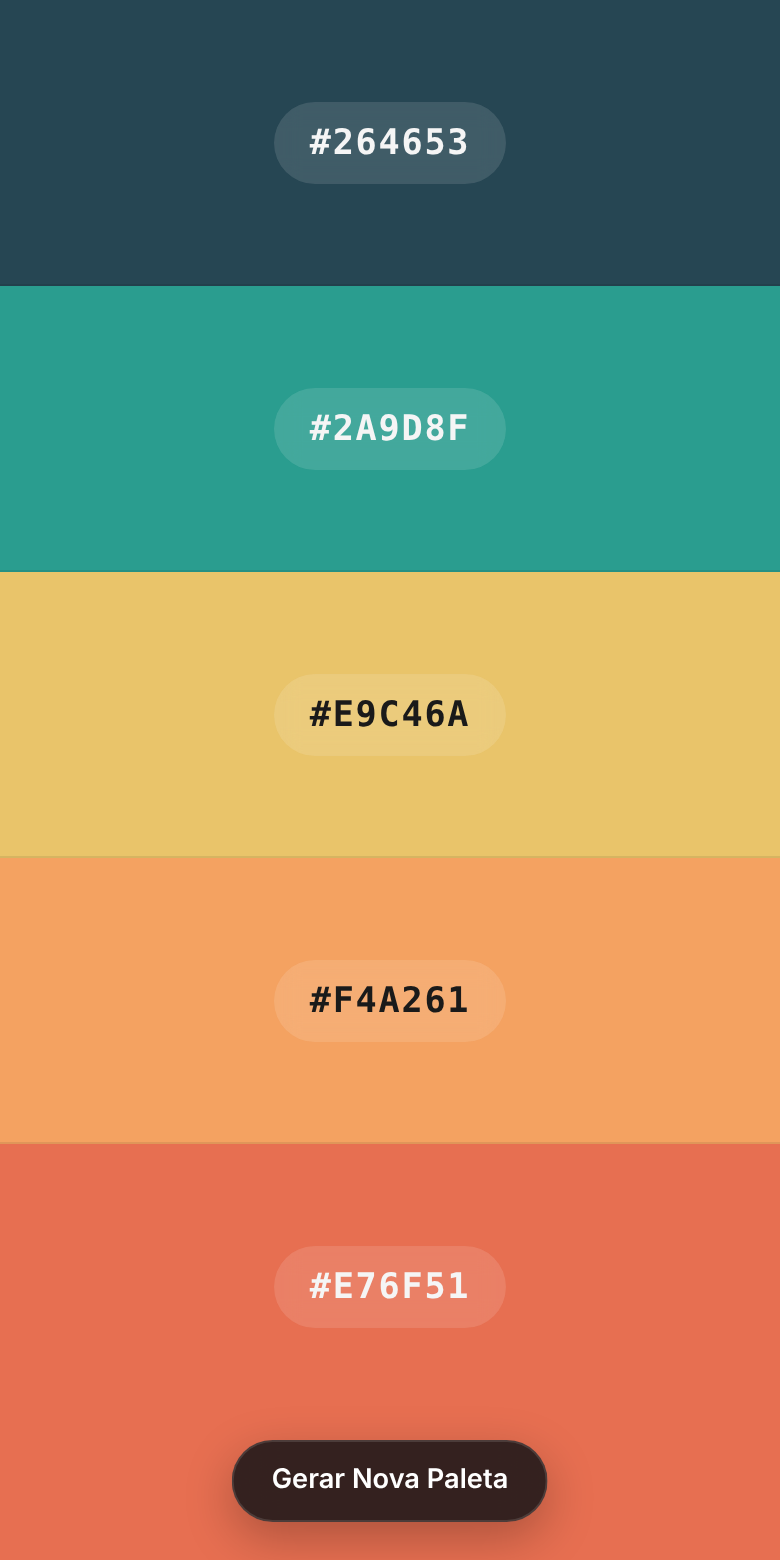
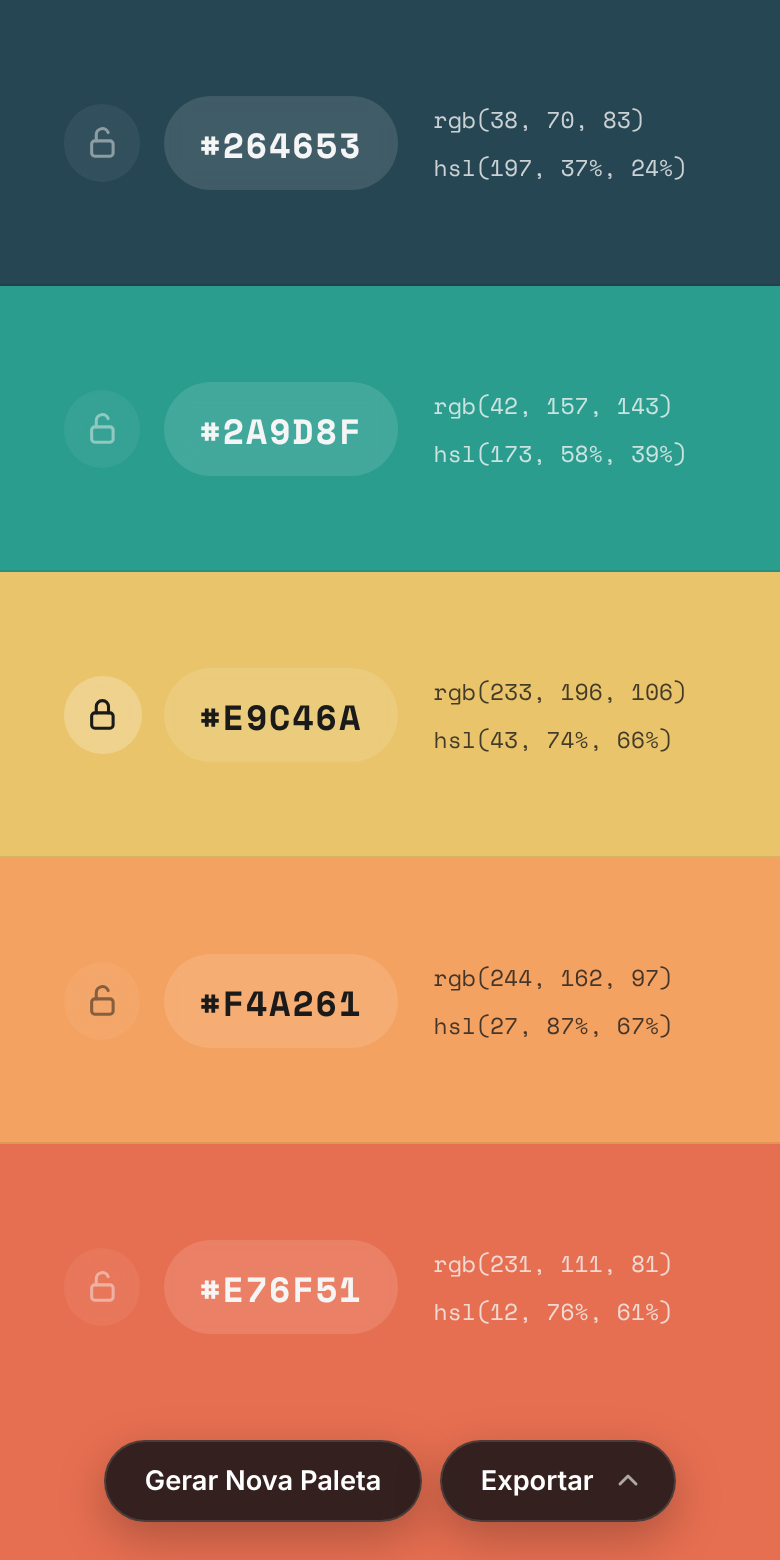
Atualiza README e prints com as novas funcionalidades
Move travar cores, RGB/HSL e exportação para "Funcionalidades",
explica as conversões e o canvas em "Como funciona" e remove a seção
"Próximas ideias". Os prints usam uma paleta fixa com a cor do meio
travada.

diff --git a/README.md b/README.md
@@ -2,14 +2,14 @@
 
 # 🎨 Gerador de Paletas
 
-Gere paletas de **5 cores aleatórias** com um clique (ou com a barra de espaço) e copie o código de qualquer cor na hora.
+Gere paletas de **5 cores aleatórias** com um clique (ou com a barra de espaço), trave as que você gostou e copie ou exporte a paleta na hora.
 
 [![Testar online](https://img.shields.io/badge/▶_Testar_online-264653?style=for-the-badge)](https://erickfuzer.github.io/GeradorDePaletas/)
 ![HTML5](https://img.shields.io/badge/HTML5-E34F26?style=for-the-badge&logo=html5&logoColor=white)
 ![CSS3](https://img.shields.io/badge/CSS3-1572B6?style=for-the-badge&logo=css3&logoColor=white)
 ![JavaScript](https://img.shields.io/badge/JavaScript-F7DF1E?style=for-the-badge&logo=javascript&logoColor=black)
 
-<img src="assets/preview.png" alt="Gerador de Paletas mostrando cinco colunas de cor com seus códigos hexadecimais" width="760">
+<img src="assets/preview.png" alt="Gerador de Paletas mostrando cinco colunas de cor com seus códigos hex, RGB e HSL, a do meio travada" width="760">
 
 </div>
 
@@ -18,15 +18,17 @@ Gere paletas de **5 cores aleatórias** com um clique (ou com a barra de espaço
 ## Funcionalidades
 
 - **5 cores aleatórias** a cada geração, com transição suave entre uma paleta e outra
-- **Copiar com um clique:** toque no código hex e ele vai para a área de transferência, com o aviso *"Copiado!"*
+- **Travar cores:** clique no cadeado de uma cor e ela continua igual nas próximas gerações
+- **Hex, RGB e HSL:** cada cor mostra os três formatos, e qualquer um vai para a área de transferência com um clique, com o aviso *"Copiado!"*
+- **Exportar a paleta:** baixe como imagem (`paleta.png`) ou copie como variáveis CSS (`:root { --cor-1: …; }`)
 - **Atalho de teclado:** aperte <kbd>Espaço</kbd> para gerar uma nova paleta
 - **Texto sempre legível:** a cor do código muda entre claro e escuro conforme o brilho do fundo
-- **Responsivo:** no celular as colunas viram faixas empilhadas e o botão nunca cobre o último código
+- **Responsivo:** no celular as colunas viram faixas empilhadas e os botões nunca cobrem o último código
 
 <details>
 <summary>Ver no celular</summary>
 <br>
-<img src="assets/preview-mobile.png" alt="Versão mobile com as cores empilhadas" width="260">
+<img src="assets/preview-mobile.png" alt="Versão mobile com as cores empilhadas, cada uma com cadeado, hex, RGB e HSL" width="260">
 </details>
 
 ## Como usar
@@ -41,28 +43,24 @@ git clone https://github.com/erickfuzer/GeradorDePaletas.git
 
 Depois é só abrir o `index.html` no navegador. Não precisa instalar nada.
 
-> O botão de copiar usa a Clipboard API, que só funciona em `https://` ou `localhost`. Se abrir o arquivo direto e a cópia falhar, use a versão online.
+> Copiar os códigos e exportar como CSS usam a Clipboard API, que só funciona em `https://` ou `localhost`. Se abrir o arquivo direto e a cópia falhar, use a versão online.
 
 ## Estrutura
 
 ```
 GeradorDePaletas/
-├── index.html    # estrutura da página
-├── style.css     # layout das colunas, botão e versão mobile
-├── script.js     # geração das cores, cópia e atalho de teclado
+├── index.html    # estrutura da página e menu de exportar
+├── style.css     # layout das colunas, botões e versão mobile
+├── script.js     # geração das cores, travas, conversões, cópia e exportação
 └── assets/       # imagens do README
 ```
 
 ## Como funciona
 
-- Cada cor é um número aleatório entre `0x000000` e `0xFFFFFF`, convertido para hexadecimal.
-- Para decidir a cor do texto, o script calcula o **brilho percebido** da cor com a fórmula `(R × 299 + G × 587 + B × 114) / 1000`. Acima de 150, o texto fica escuro; abaixo, claro.
-
-## Próximas ideias
-
-- [ ] Travar uma cor para ela não mudar na próxima geração
-- [ ] Mostrar também os valores em RGB e HSL
-- [ ] Exportar a paleta como imagem ou CSS
+- Cada cor é um número aleatório entre `0x000000` e `0xFFFFFF`, convertido para hexadecimal. Ao gerar uma nova paleta, as colunas travadas são puladas.
+- O RGB sai direto dos pares do hex (`E9` → 233), e o HSL é calculado a partir do RGB, sem bibliotecas.
+- Para decidir a cor do texto e do cadeado, o script calcula o **brilho percebido** da cor com a fórmula `(R × 299 + G × 587 + B × 114) / 1000`. Acima de 150, eles ficam escuros; abaixo, claros.
+- A imagem exportada é desenhada num `<canvas>`, com uma faixa e o código hex de cada cor, e baixada como `paleta.png`.
 
 ## Licença
 
